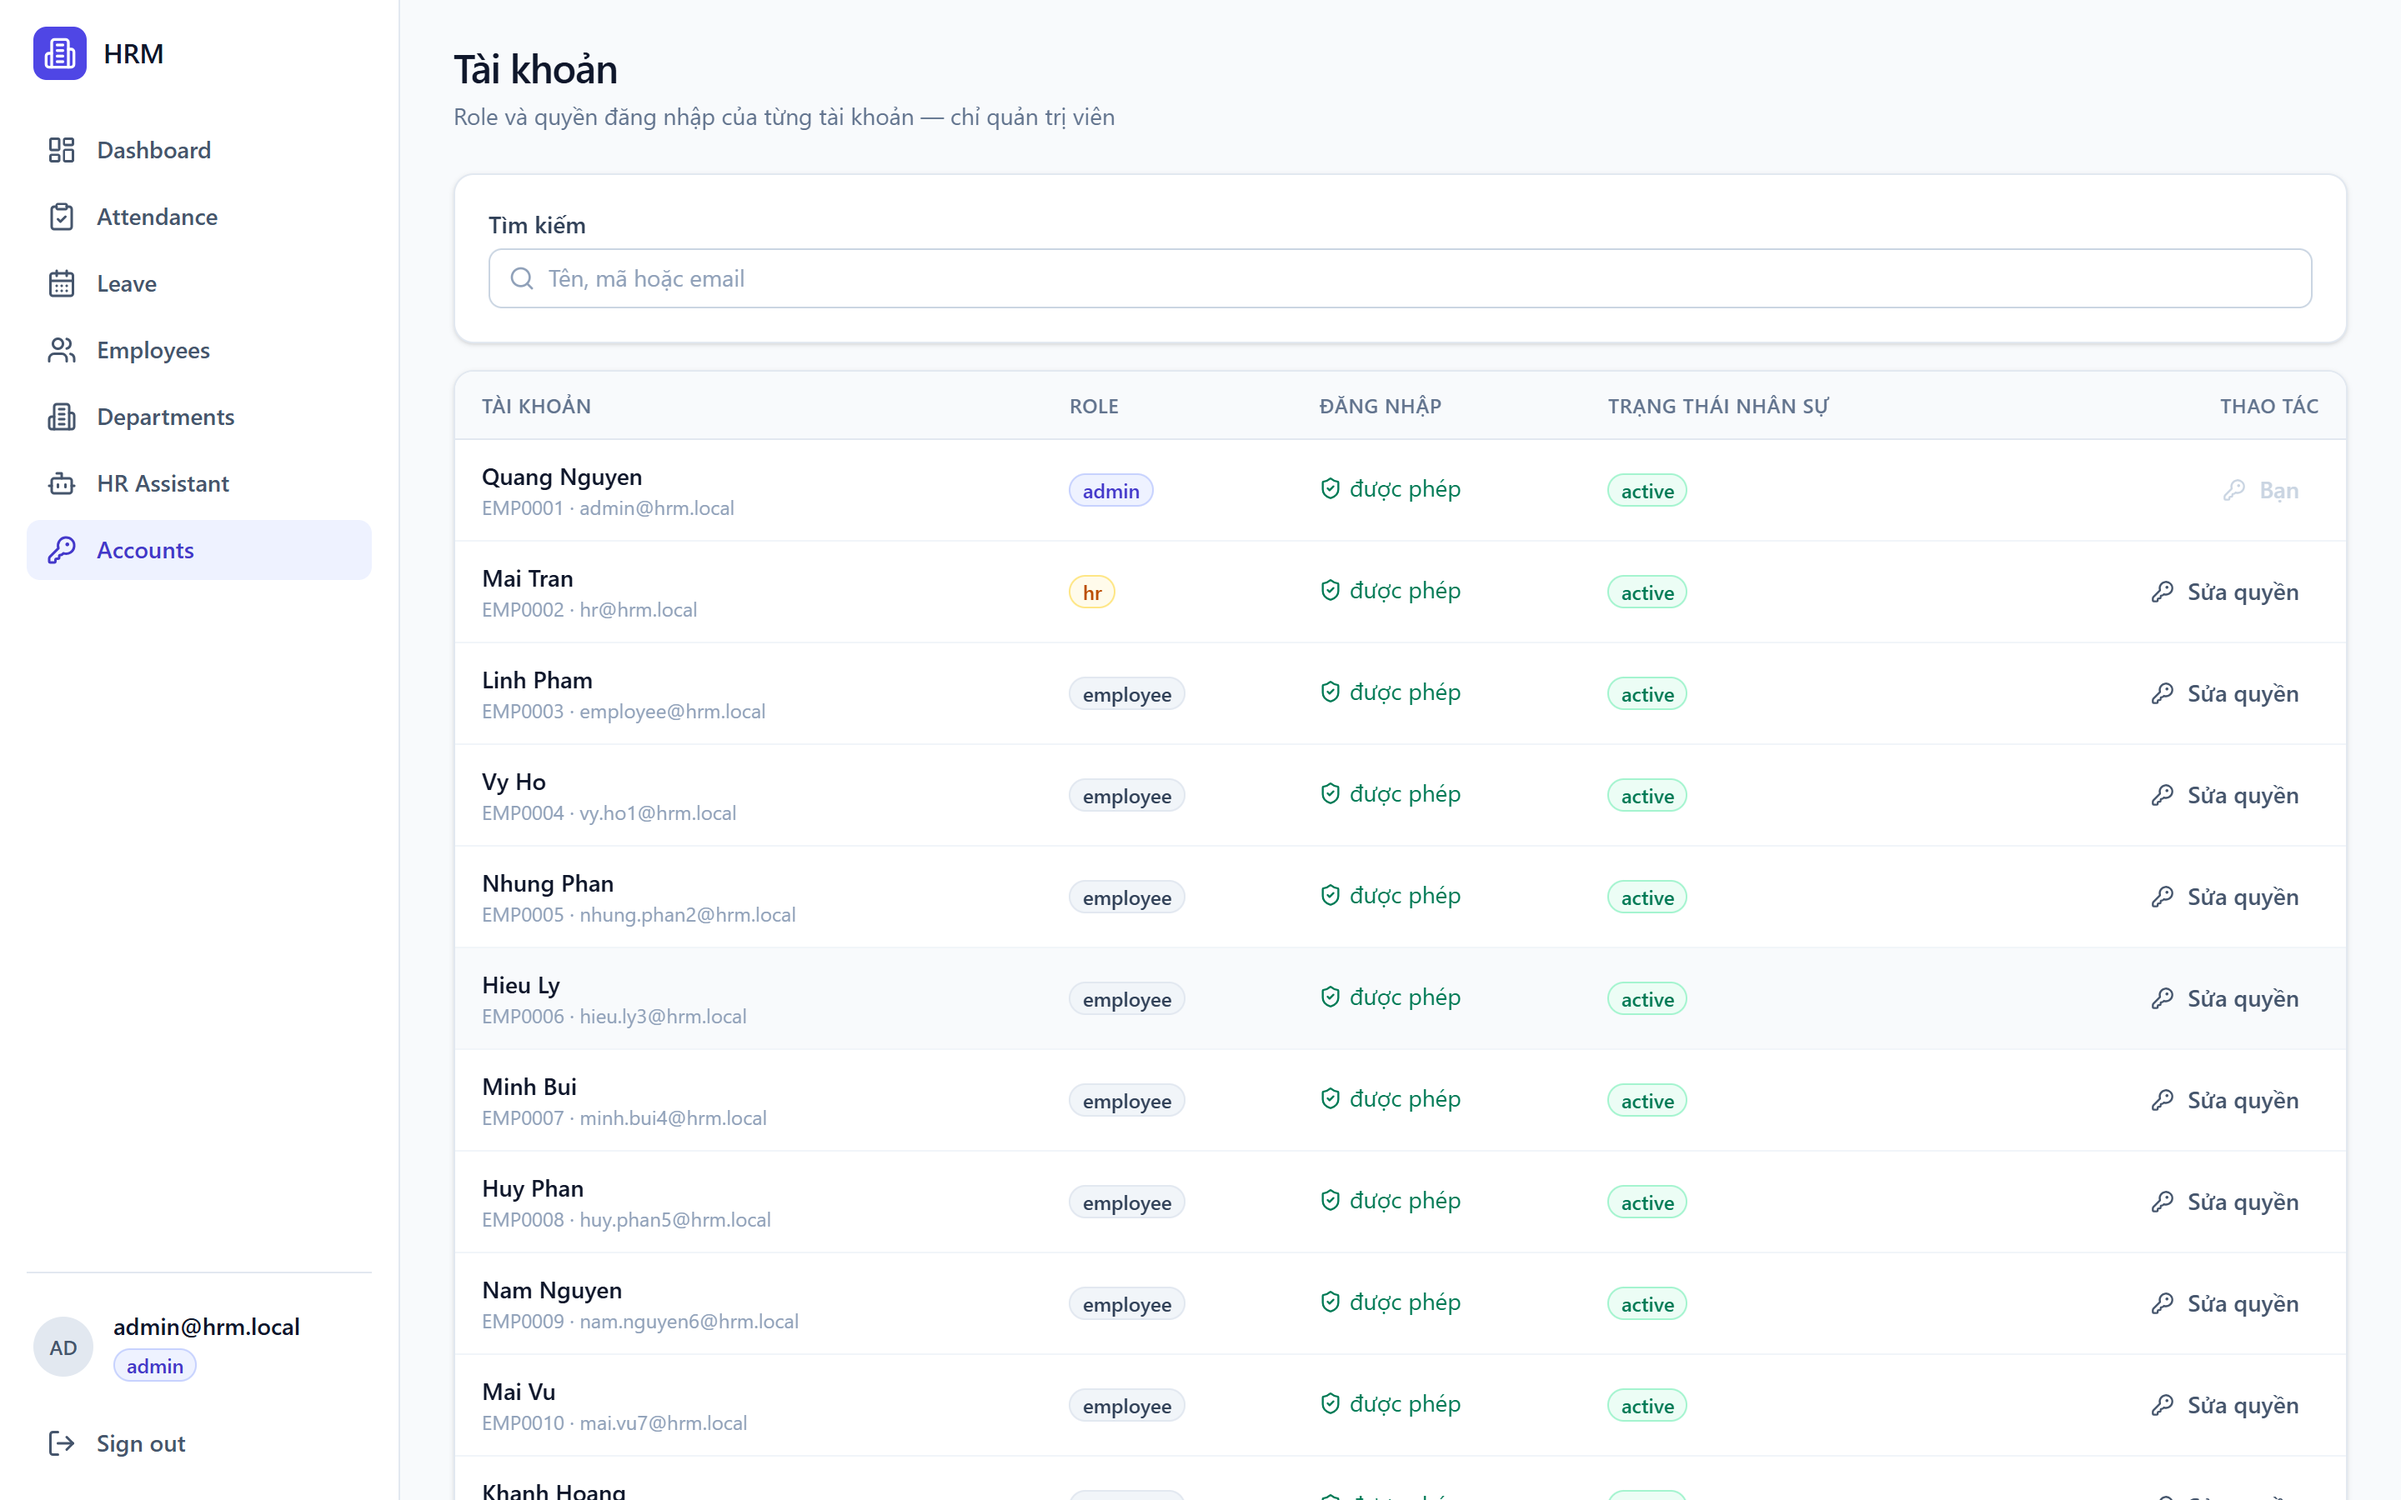
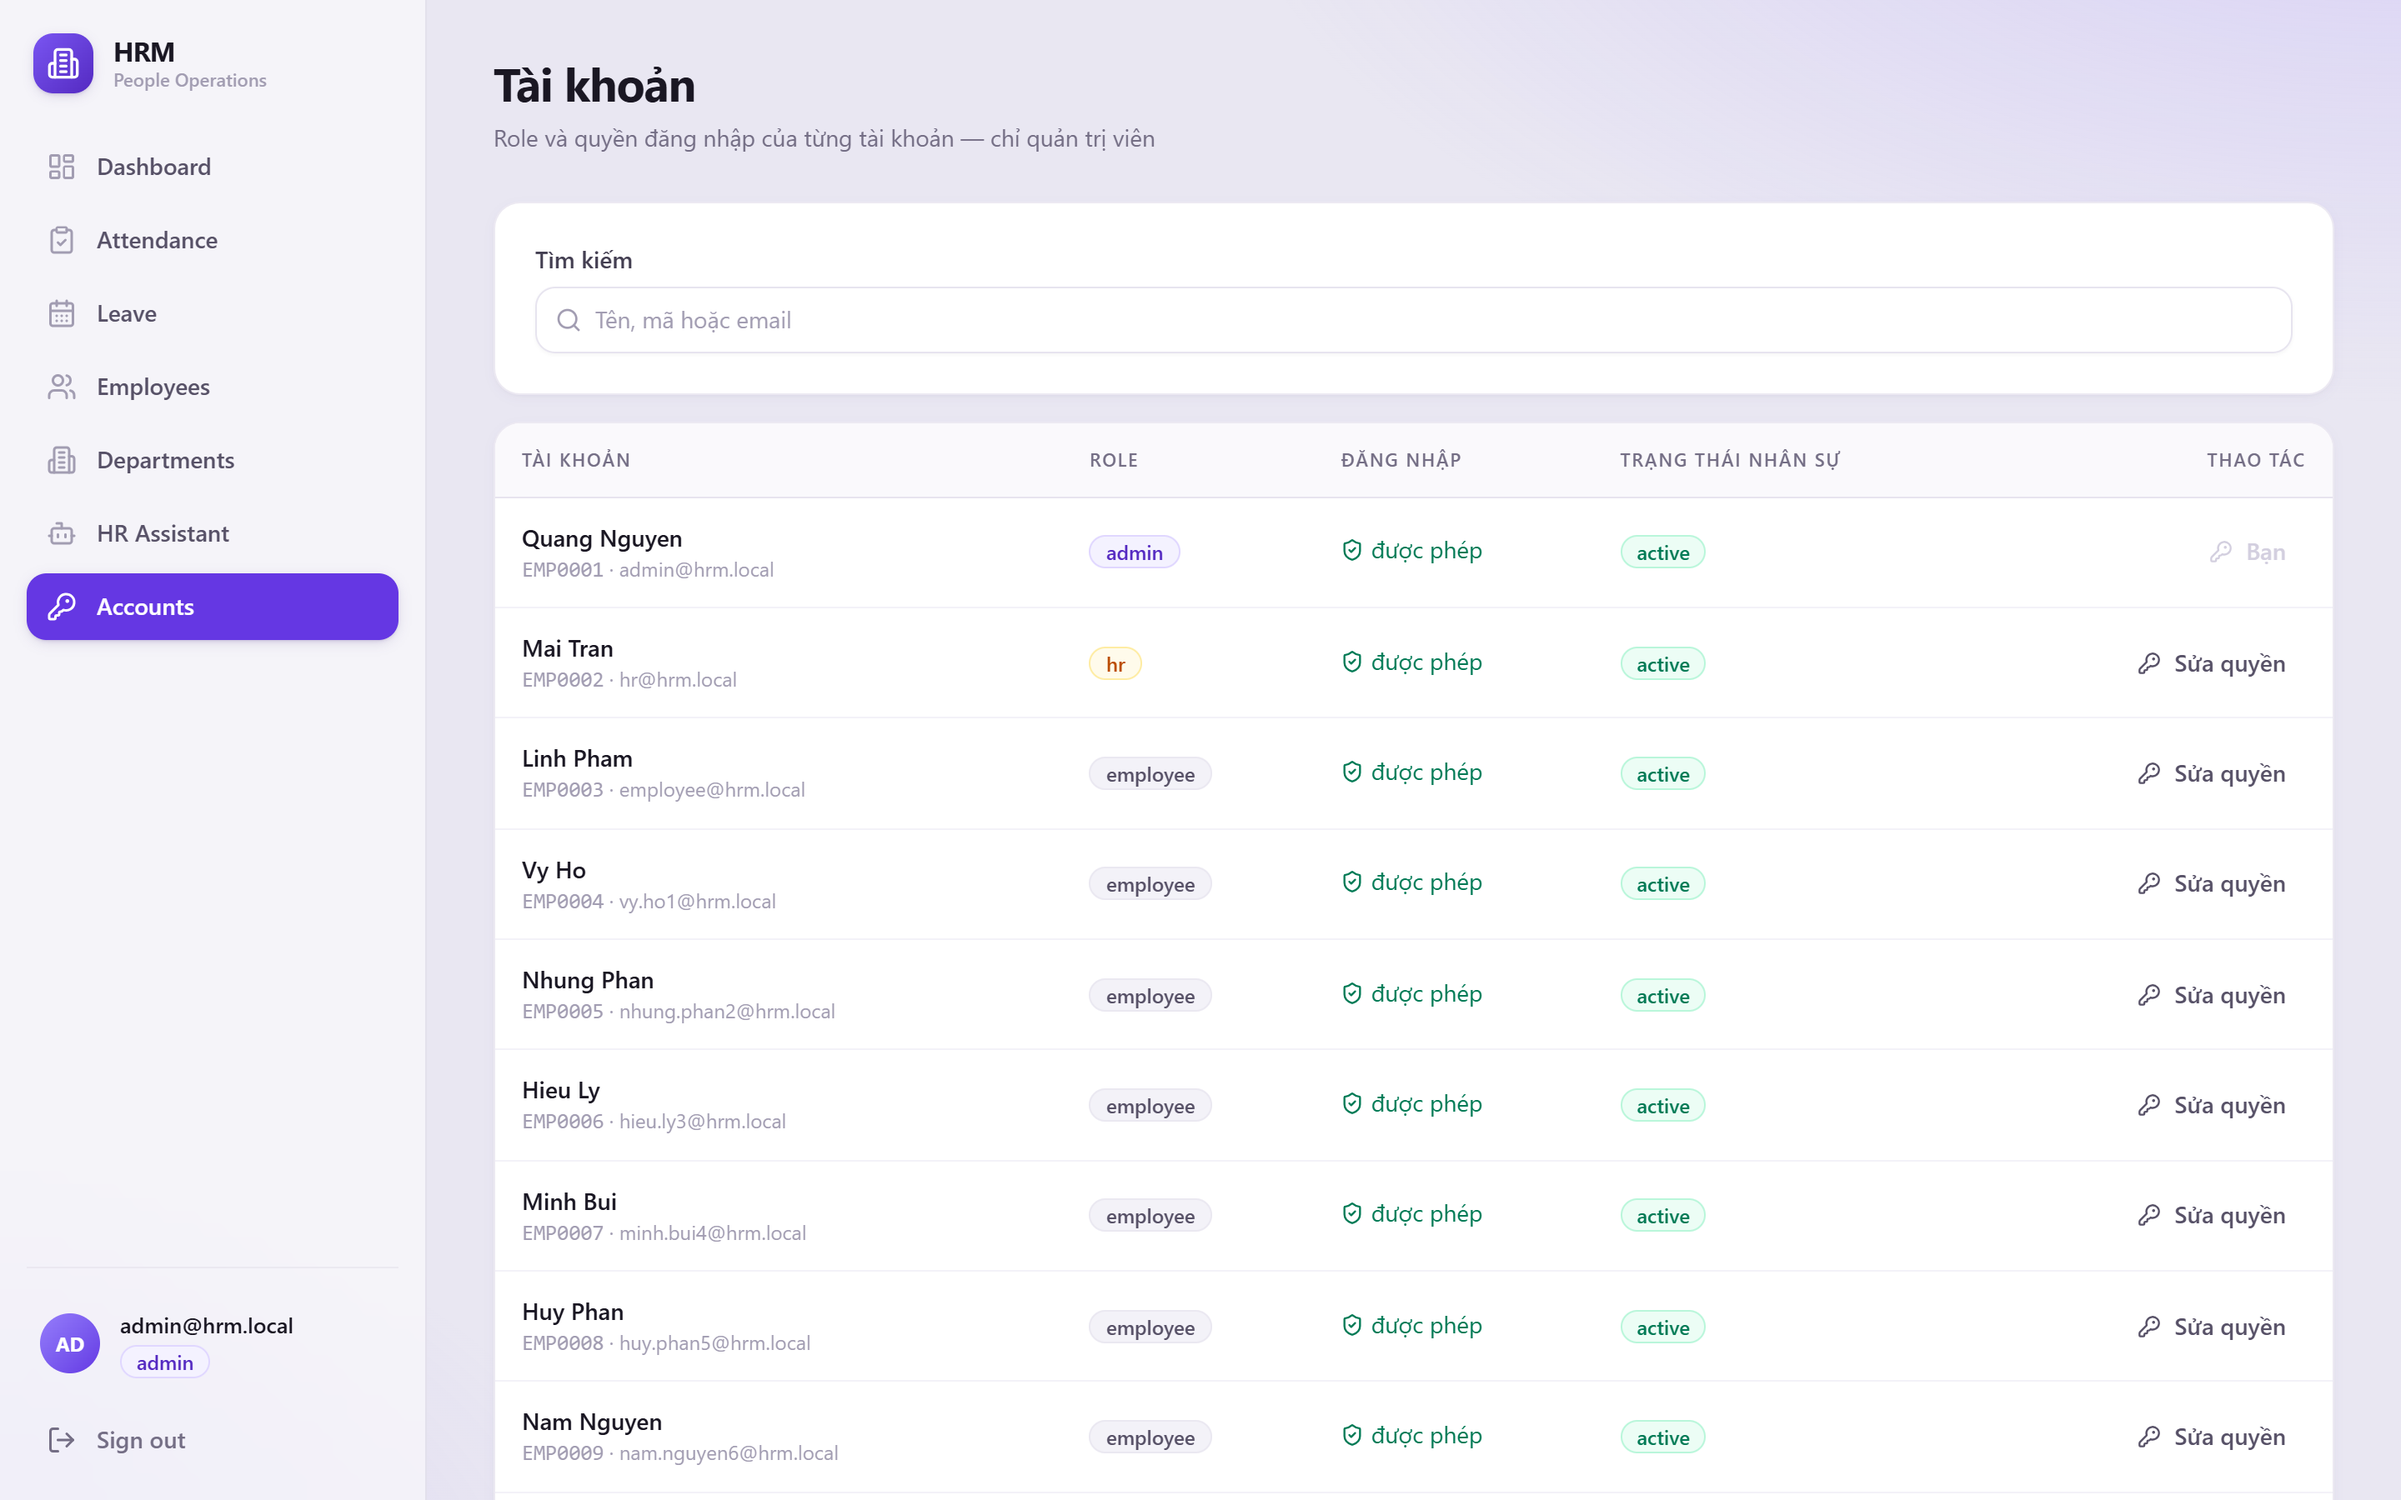
docs: reshoot the screenshots against the redesigned app
All four were taken before the retone and showed an interface that no longer
exists. These come from the live demo as it stands, which also means the
assistant shot finally has a real answer in it — the provider was not
configured when the old ones were taken, so that screenshot showed an error.

Two captions now point at something visible rather than describing it: the
tool-call trace under the assistant's answer, and the row in account
administration that says "Bạn" where the edit button would be, which is the
self-modification guard showing its work.

diff --git a/README.md b/README.md
@@ -62,15 +62,18 @@ frontend mà đơn giản là không có trong dữ liệu trả về.
 
 ![Danh sách nhân viên](docs/screenshots/employees.png)
 
-**Trợ lý AI** — panel bên phải liệt kê đúng những tool mà role đang đăng nhập được phép gọi, và
-nói thẳng phạm vi của từng cái: `only you` hay `company-wide`. Mô hình không bao giờ nhìn thấy
-database; nó chỉ chọn gọi tool nào, còn server quyết định người này có được gọi hay không.
+**Trợ lý AI** — câu trả lời bên dưới là dữ liệu thật, lấy qua một tool call mà giao diện ghi lại
+ngay dưới câu trả lời: *Employee directory (7ms)*. Mô hình không bao giờ nhìn thấy database và
+không viết một dòng SQL nào; nó chỉ chọn gọi tool nào, còn server quyết định người đang hỏi có
+được gọi tool đó hay không. Panel bên phải liệt kê đúng những tool mà role hiện tại chạm tới
+được, kèm phạm vi từng cái: `only you` hay `company-wide`.
 
 ![Trợ lý AI](docs/screenshots/assistant.png)
 
 **Quản trị tài khoản** — quyền duy nhất ADMIN có mà HR không có. Đổi role hoặc khoá đăng nhập của
 người khác, với ba rào chắn: không tự sửa chính mình, không hạ cấp quản trị viên hoạt động cuối
-cùng, không mở lại đăng nhập cho người đã nghỉ việc.
+cùng, không mở lại đăng nhập cho người đã nghỉ việc. Rào chắn thứ nhất nhìn thấy được ngay trên
+ảnh: hàng đầu tiên là tài khoản đang đăng nhập, và nó ghi "Bạn" thay cho nút sửa.
 
 ![Quản trị tài khoản](docs/screenshots/accounts.png)
 
